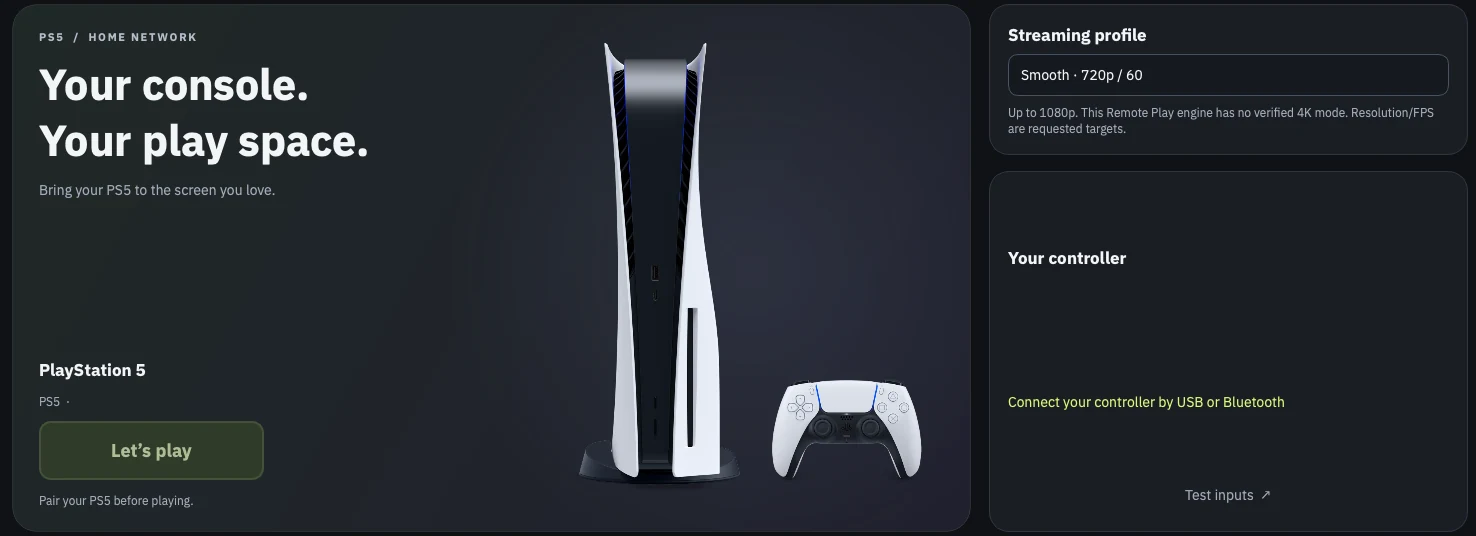
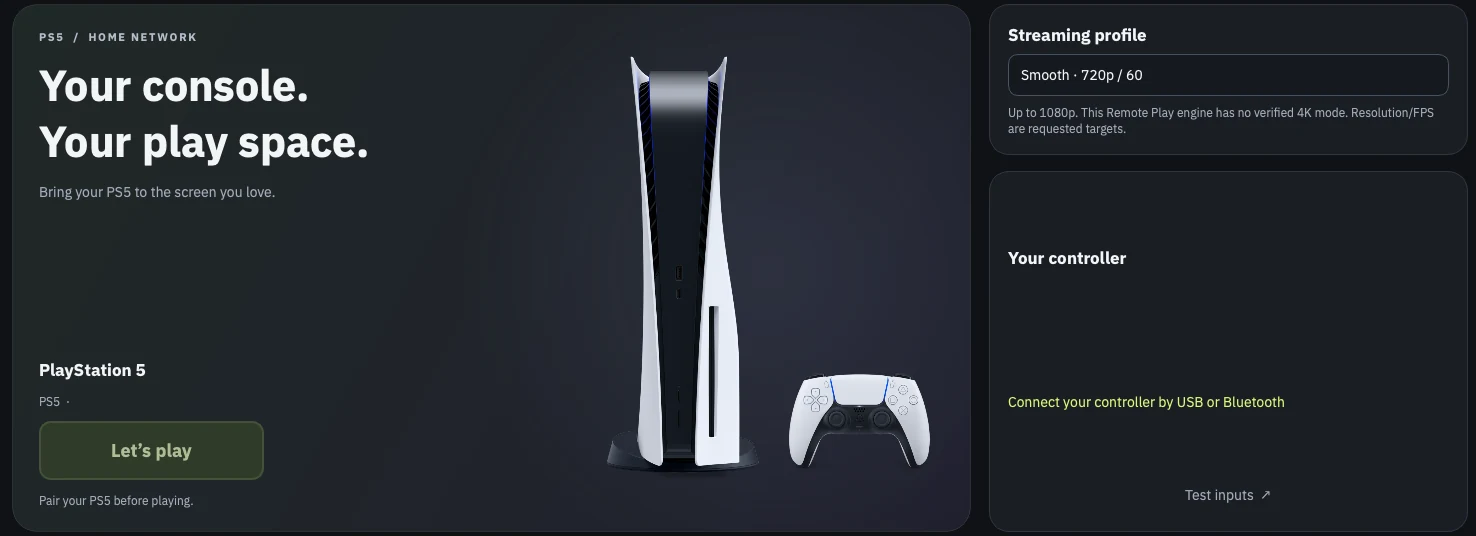
Refresh real 0.8.6 desktop screenshots

diff --git a/README.md b/README.md
@@ -1,4 +1,4 @@
-<p align="center"><a href="https://remteh-by.github.io/remteh-remote-play/"><img src="website/assets/github-cover-0.8.6-b22-ba2c8a9195f0.webp" alt="Deckivo — actual desktop interface, development preview 0.8.6 build 22" width="100%"></a></p>
+<p align="center"><a href="https://remteh-by.github.io/remteh-remote-play/"><img src="website/assets/github-cover-0.8.6-b22-e89f2fef8ace.webp" alt="Deckivo — actual desktop interface, development preview 0.8.6 build 22" width="100%"></a></p>
 <p align="center"><sub>Actual Deckivo 0.8.6 desktop interface · desktop build 22 · Android build 31.</sub></p>
 
 <p align="center"><strong>Open-source PS5 Remote Play on Nintendo Switch OLED (Android), Android devices and Apple Silicon Macs. Switchroot Ubuntu preview.</strong><br>Developed by <a href="https://remteh.by/?utm_source=github&amp;utm_medium=referral&amp;utm_campaign=deckivo">RemTeh.by</a> · <a href="https://remteh.by/remont-konsoli?utm_source=github&amp;utm_medium=referral&amp;utm_campaign=deckivo">Game console repair in Minsk</a> · Built on Chiaki / chiaki-ng / Android Extended</p>
